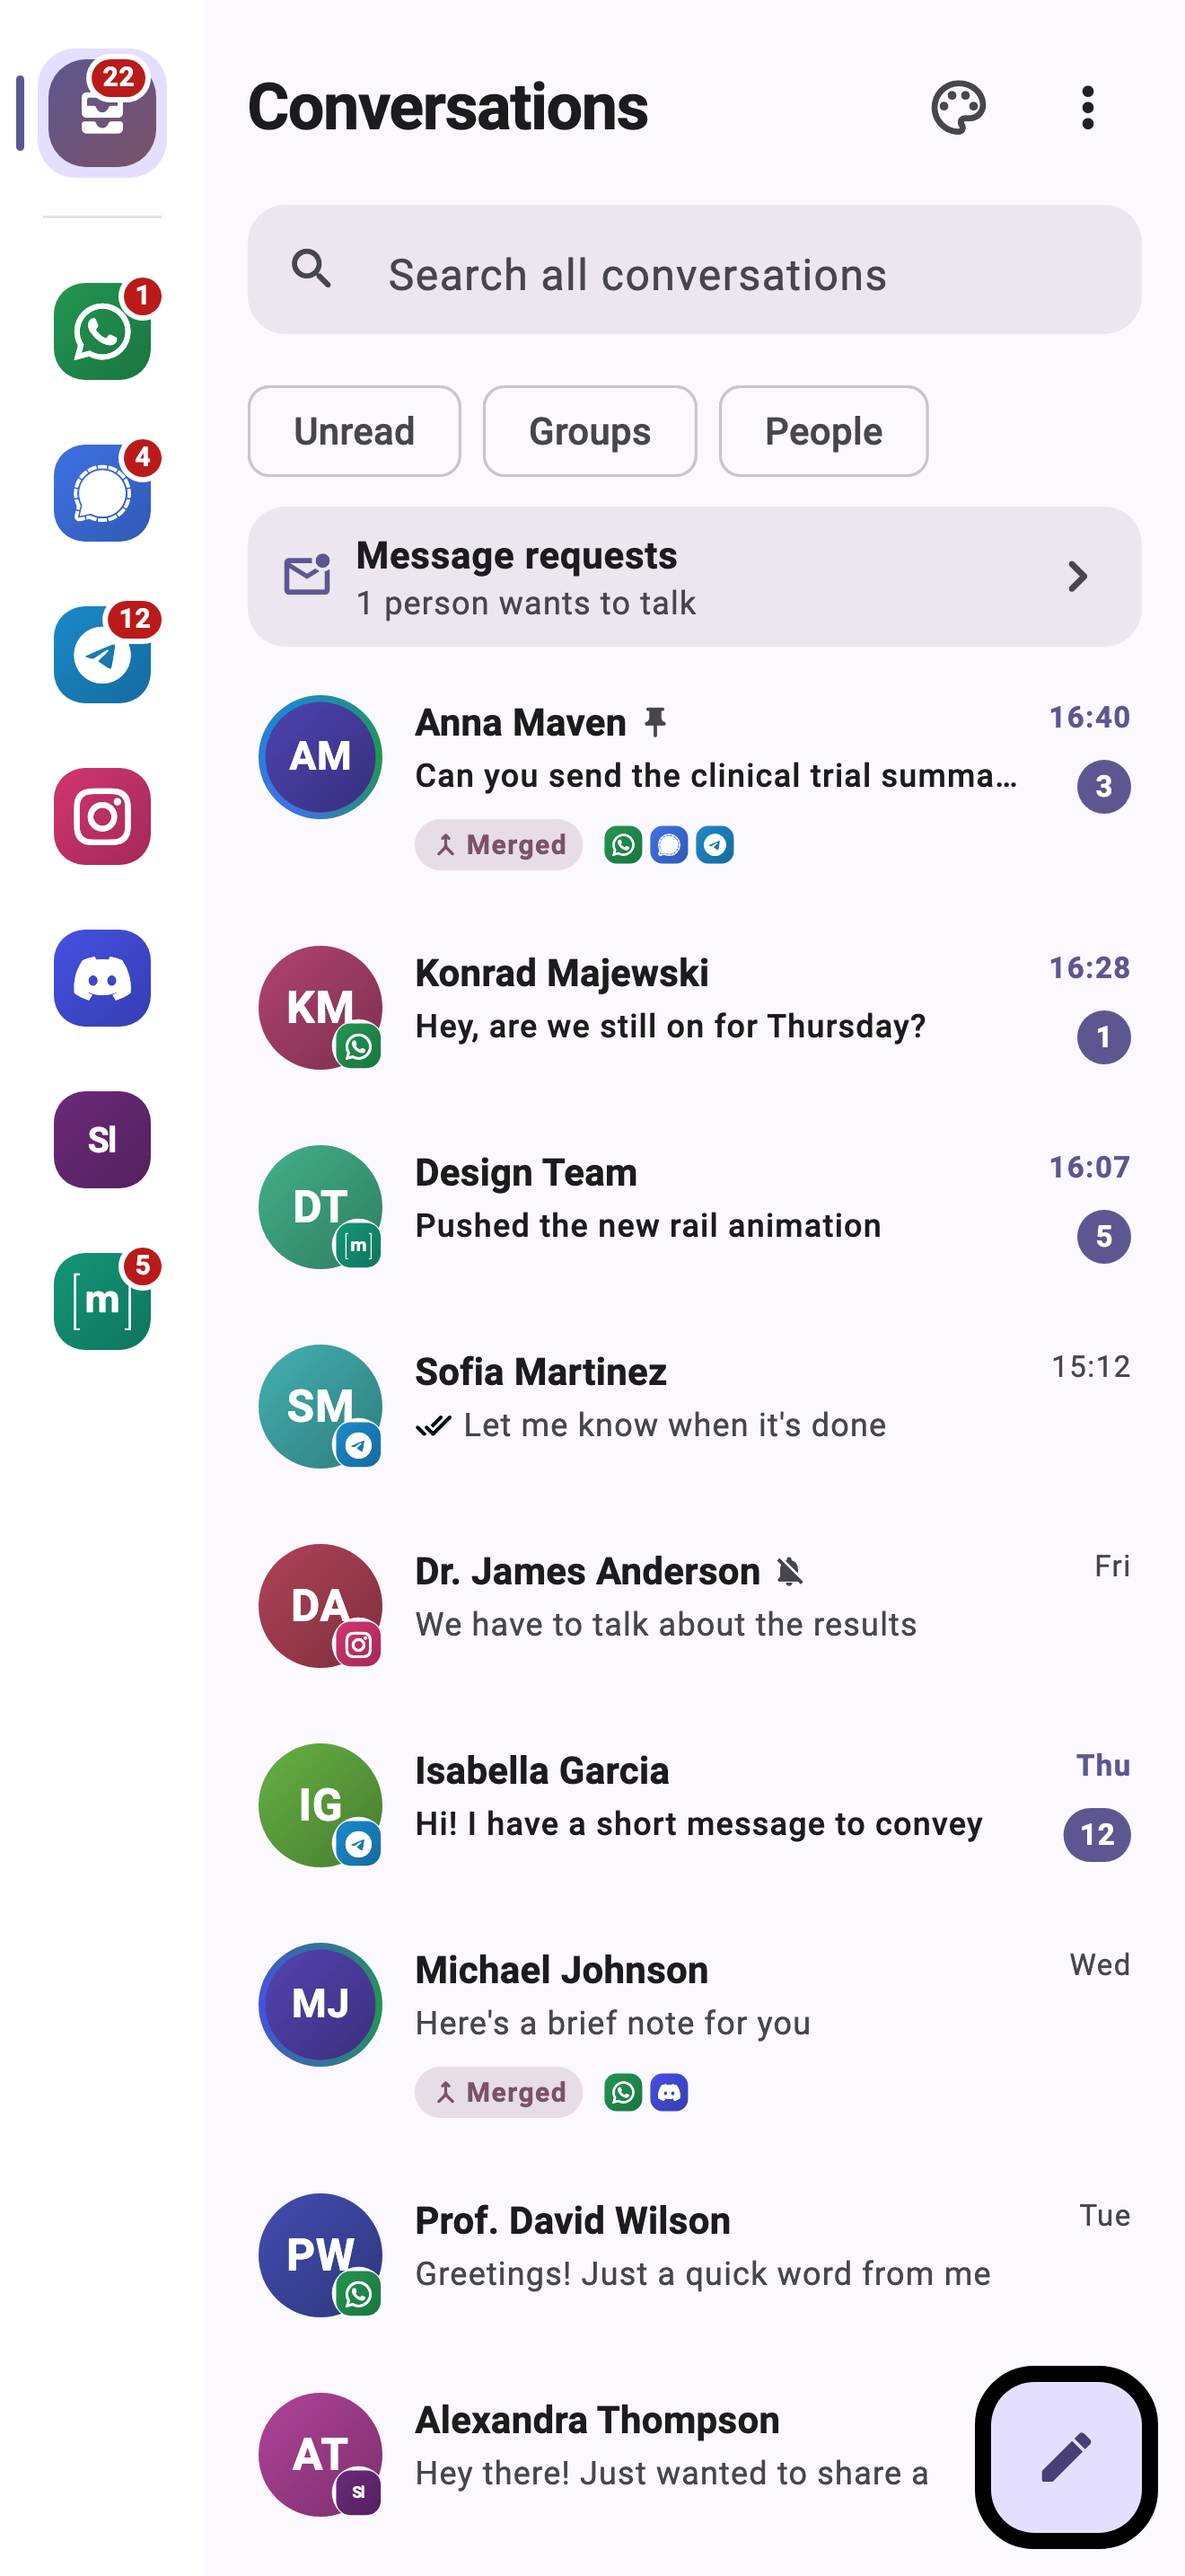
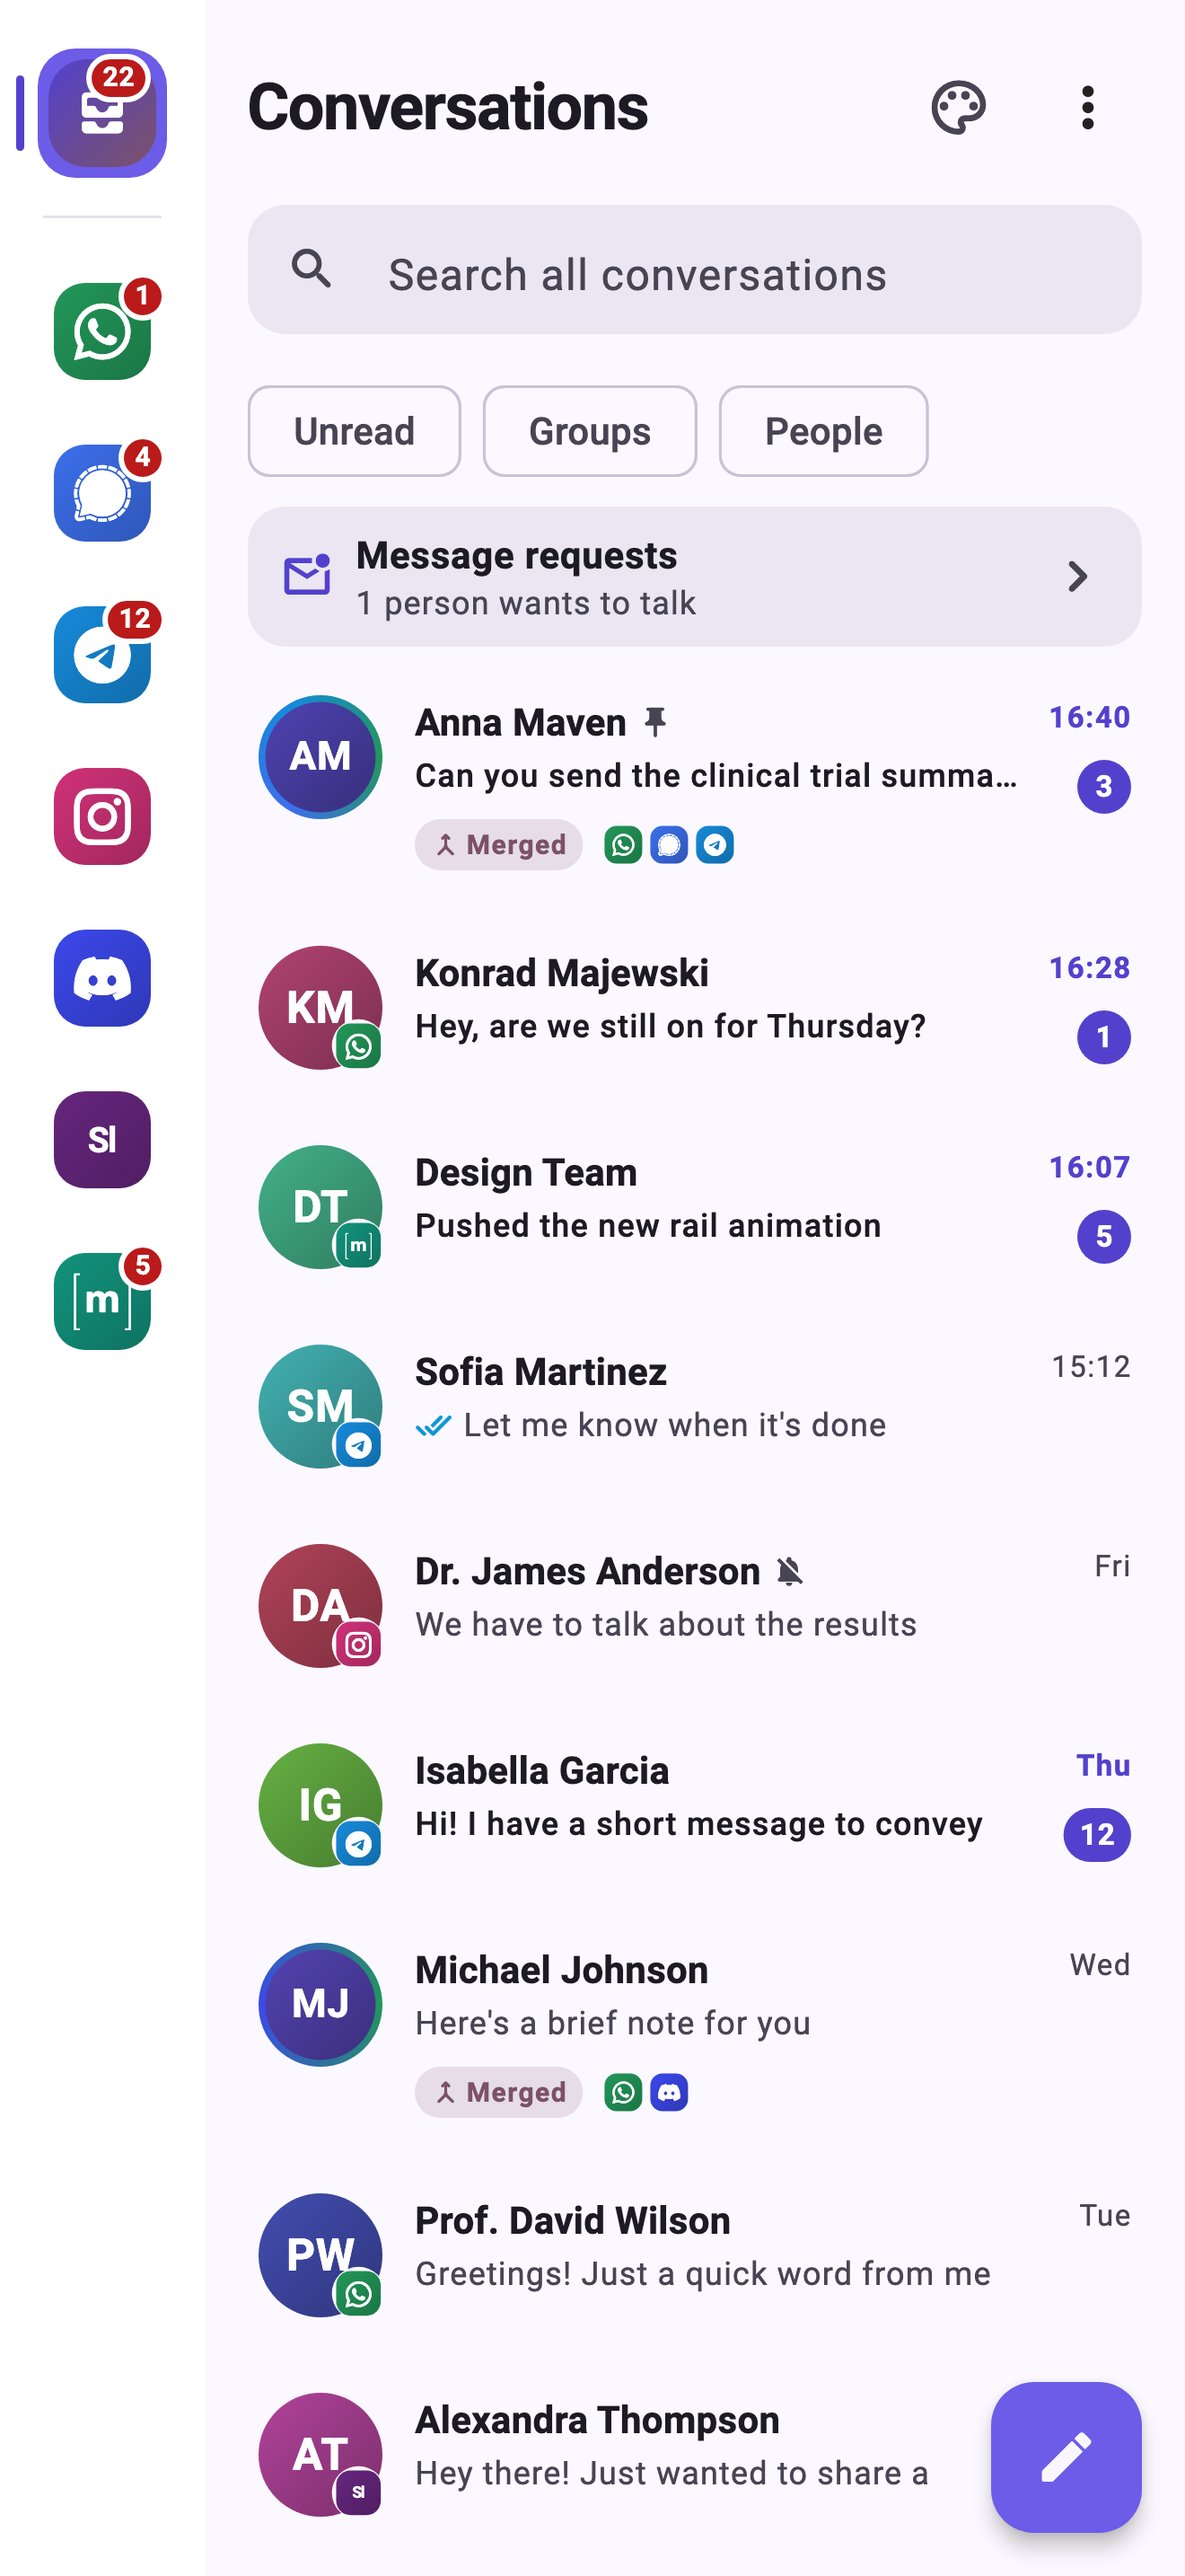
Give the accent its own colour, and settings rows room to breathe
The colour scheme now keeps the chosen accent's chroma instead of Material's
greyed cousin of it, with the tertiary family left on the default derivation
so the Merged pill and the brand gradient stay mauve. The user's own bubble
uses the container tone in the dark theme, and a two-line list row no longer
touches its neighbours.

The store screenshots are rendered again with real shadows, and a design
preview tool renders the same screens for a look before publishing.

The golden files are not regenerated here.

diff --git a/packages/weft_design/lib/src/theme.dart b/packages/weft_design/lib/src/theme.dart
@@ -284,17 +284,42 @@ abstract final class WeftTheme {
     final scheme = ColorScheme.fromSeed(
       seedColor: seed,
       brightness: brightness,
+      // The accent the user picked, as the accent they get. Material's default
+      // variant treats the seed as a hint and hands back a greyed cousin of it
+      // — the default violet came out as slate, and every preset as a muted
+      // version of itself — which is why the unread badge, the send button and
+      // the user's own bubbles all read as "disabled purple". `fidelity` keeps
+      // the seed's own chroma and still derives every on-colour for contrast.
+      dynamicSchemeVariant: DynamicSchemeVariant.fidelity,
       // Material's own high-contrast tone mapping: it pushes the on-colours to
       // the ends of their tonal palettes, which is exactly the adjustment that
       // would otherwise have to be hand-made for every scheme slot.
       contrastLevel: highContrast ? 1.0 : 0.0,
     );
 
+    // …except for the tertiary family, which keeps Material's default
+    // derivation. `fidelity` picks its tertiary by rotating the seed's hue a
+    // fixed distance, and for the default violet that lands on brown: the
+    // "Merged" pill, the merged caption in a conversation's bar and the
+    // brand mark's gradient all turned tan. The default variant's tertiary is
+    // the neighbouring mauve those were designed with.
+    final softer = ColorScheme.fromSeed(
+      seedColor: seed,
+      brightness: brightness,
+      contrastLevel: highContrast ? 1.0 : 0.0,
+    );
+    final seeded = scheme.copyWith(
+      tertiary: softer.tertiary,
+      onTertiary: softer.onTertiary,
+      tertiaryContainer: softer.tertiaryContainer,
+      onTertiaryContainer: softer.onTertiaryContainer,
+    );
+
     // AMOLED pushes the base surface to true black to save power on OLED and
     // to make the accent colours pop, but keeps elevated surfaces lifted so the
     // hierarchy doesn't collapse into an unreadable void.
     final effectiveScheme = amoled && brightness == Brightness.dark
-        ? scheme.copyWith(
+        ? seeded.copyWith(
             surface: const Color(0xFF000000),
             surfaceContainerLowest: const Color(0xFF000000),
             surfaceContainerLow: const Color(0xFF0A0A0C),
@@ -302,7 +327,7 @@ abstract final class WeftTheme {
             surfaceContainerHigh: const Color(0xFF1A1A20),
             surfaceContainerHighest: const Color(0xFF222229),
           )
-        : scheme;
+        : seeded;
 
     final isDark = brightness == Brightness.dark;
     final palette = _paletteFor(
@@ -543,7 +568,11 @@ abstract final class WeftTheme {
       ),
       listTileTheme: ListTileThemeData(
         dense: true,
-        minVerticalPadding: 2,
+        // Room for a second line. At two points a title-and-subtitle row —
+        // which is every row in Settings — had its text touching the row
+        // above and below. A one-line menu item is unaffected: it is already
+        // held open by [minTileHeight].
+        minVerticalPadding: WeftSpace.dense,
         // `dense` shrinks the *text* and leaves the box: a menu of five items
         // still came out 240 points tall, where the system's is nearer 120.
         // The height and the density are what actually move it.
@@ -703,9 +732,17 @@ abstract final class WeftTheme {
       WeftContrast.uiComponent,
     );
 
+    // The user's own bubble is the accent as a *fill* in both themes. In the
+    // light theme that is `primary`. In the dark one `primary` is the pale
+    // tone meant for text on a dark page, and a column of pale lavender
+    // slabs is the brightest thing on a dark screen; the container tone is
+    // the same hue at a depth that sits in the page, with light ink on it.
+    final ownBubble = isDark ? scheme.primaryContainer : scheme.primary;
+    final ownBubbleText = isDark ? scheme.onPrimaryContainer : scheme.onPrimary;
+
     return WeftPalette(
-      ownBubble: scheme.primary,
-      ownBubbleText: scheme.onPrimary,
+      ownBubble: ownBubble,
+      ownBubbleText: ownBubbleText,
       peerBubble: peerBubble,
       peerBubbleText: scheme.onSurface,
       railBackground: amoled
@@ -720,7 +757,7 @@ abstract final class WeftTheme {
       // 13dp tick is a graphic that carries meaning, not body text.
       readReceipt: _ensureOn(
         brandBlue,
-        (_) => [...backgrounds, scheme.primary],
+        (_) => [...backgrounds, ownBubble],
         WeftContrast.uiComponent,
       ),
       callAccept: brandGreen,

diff --git a/apps/weft/test/tools/design_preview_test.dart b/apps/weft/test/tools/design_preview_test.dart
@@ -1,0 +1,108 @@
+@Tags(['preview'])
+library;
+
+import 'dart:io';
+import 'dart:ui' as ui;
+
+import 'package:flutter/material.dart';
+import 'package:flutter/rendering.dart';
+import 'package:flutter/services.dart';
+import 'package:flutter_test/flutter_test.dart';
+import 'package:weft_design/weft_design.dart';
+
+import 'package:weft/features/chat/chat_view.dart';
+import 'package:weft/features/chat/rich_text_view.dart';
+import 'package:weft/features/inbox/inbox_shell.dart';
+
+import '../support/golden_harness.dart';
+
+/// The screens people live in, drawn to disk so a design change can be looked
+/// at rather than imagined.
+///
+///   WEFT_PREVIEW_DIR=/somewhere flutter test \
+///     test/tools/design_preview_test.dart --run-skipped
+///
+/// Asserts nothing and writes outside the repository, which is why it is
+/// tagged out of an ordinary run. Shadows are drawn as shadows — the test
+/// binding paints them as solid black boxes by default, which is right for a
+/// layout golden and wrong for anything meant to be looked at.
+void main() {
+  final out = Platform.environment['WEFT_PREVIEW_DIR'];
+
+  setUpAll(() async {
+    await loadGoldenFonts();
+    final emoji = File('/System/Library/Fonts/Apple Color Emoji.ttc');
+    if (emoji.existsSync()) {
+      final loader = FontLoader('Roboto')
+        ..addFont(Future.value(emoji.readAsBytesSync().buffer.asByteData()));
+      await loader.load();
+    }
+  });
+  setUp(clearMessageDocumentCache);
+
+  const phone = Size(390, 844);
+  const desk = Size(1280, 800);
+
+  final scenes = <(String, Widget, Size, WeftSurface)>[
+    ('phone_inbox', const InboxShell(), phone, WeftSurface.touch),
+    (
+      'phone_chat_merged',
+      const ChatView(chatId: 'merged:anna'),
+      phone,
+      WeftSurface.touch,
+    ),
+    (
+      'phone_chat_group',
+      const ChatView(chatId: '!design_room:example.org'),
+      phone,
+      WeftSurface.touch,
+    ),
+    (
+      'phone_chat_dm',
+      const ChatView(chatId: '!konrad_wa_room:example.org'),
+      phone,
+      WeftSurface.touch,
+    ),
+    (
+      'tablet_inbox',
+      const InboxShell(),
+      const Size(1024, 768),
+      WeftSurface.touch,
+    ),
+    ('mac_window', const InboxShell(), desk, WeftSurface.mac),
+    ('mac_chat', const ChatView(chatId: 'merged:anna'), desk, WeftSurface.mac),
+  ];
+
+  for (final (name, child, size, surface) in scenes) {
+    for (final mode in [WeftThemeMode.light, WeftThemeMode.dark]) {
+      testWidgets('$name ${mode.name}', (tester) async {
+        if (out == null) return;
+        debugDisableShadows = false;
+        try {
+          await pumpWeft(
+            tester,
+            RepaintBoundary(child: child),
+            size: size,
+            mode: mode,
+            surface: surface,
+          );
+          await tester.pumpAndSettle();
+          final boundary = tester.renderObject<RenderRepaintBoundary>(
+            find.byType(RepaintBoundary).first,
+          );
+          await tester.runAsync(() async {
+            final image = await boundary.toImage(pixelRatio: 2);
+            final bytes = await image.toByteData(
+              format: ui.ImageByteFormat.png,
+            );
+            File('$out/${name}_${mode.name}.png')
+              ..createSync(recursive: true)
+              ..writeAsBytesSync(bytes!.buffer.asUint8List());
+          });
+        } finally {
+          debugDisableShadows = true;
+        }
+      });
+    }
+  }
+}

diff --git a/apps/weft/test/tools/marketing_screenshots_test.dart b/apps/weft/test/tools/marketing_screenshots_test.dart
@@ -48,25 +48,35 @@ void main() {
     WeftThemeMode mode = WeftThemeMode.light,
     String? chatToOpen,
   }) async {
-    await pumpWeft(
-      tester,
-      RepaintBoundary(child: child),
-      size: logical,
-      mode: mode,
-    );
-    await tester.pumpAndSettle();
+    // Shadows as shadows. The test binding paints every shadow as a solid
+    // black box so that goldens do not depend on a blur — which is why the
+    // compose button in the published store screenshots wore a thick black
+    // frame. Put back before the test body ends, which is when the framework
+    // checks that it was.
+    debugDisableShadows = false;
+    try {
+      await pumpWeft(
+        tester,
+        RepaintBoundary(child: child),
+        size: logical,
+        mode: mode,
+      );
+      await tester.pumpAndSettle();
 
-    final boundary = tester.renderObject<RenderRepaintBoundary>(
-      find.byType(RepaintBoundary).first,
-    );
-    await tester.runAsync(() async {
-      final image = await boundary.toImage(pixelRatio: scale);
-      final bytes = await image.toByteData(format: ui.ImageByteFormat.png);
-      final file = File('$outDir/$name.png')..createSync(recursive: true);
-      file.writeAsBytesSync(bytes!.buffer.asUint8List());
-      expect(image.width, (logical.width * scale).round(), reason: name);
-      expect(image.height, (logical.height * scale).round(), reason: name);
-    });
+      final boundary = tester.renderObject<RenderRepaintBoundary>(
+        find.byType(RepaintBoundary).first,
+      );
+      await tester.runAsync(() async {
+        final image = await boundary.toImage(pixelRatio: scale);
+        final bytes = await image.toByteData(format: ui.ImageByteFormat.png);
+        final file = File('$outDir/$name.png')..createSync(recursive: true);
+        file.writeAsBytesSync(bytes!.buffer.asUint8List());
+        expect(image.width, (logical.width * scale).round(), reason: name);
+        expect(image.height, (logical.height * scale).round(), reason: name);
+      });
+    } finally {
+      debugDisableShadows = true;
+    }
   }
 
   // 6.9" iPhone: 440×956 points at 3× — 1320×2868.
